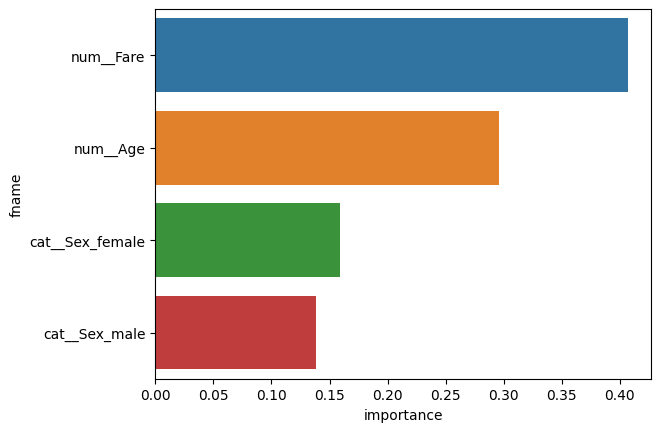
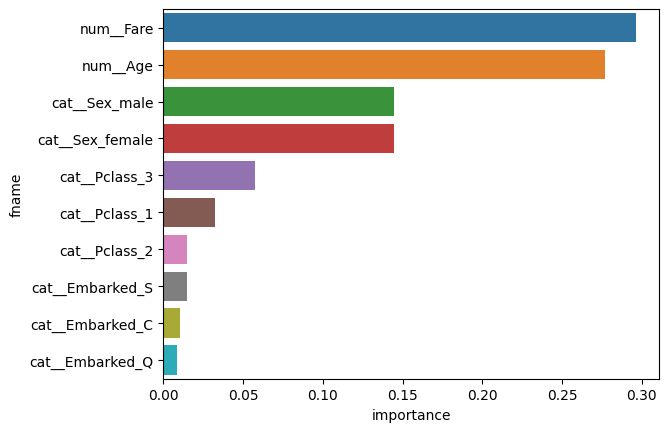
Pclass added cvs=0.794

diff --git a/src/featurize.py b/src/featurize.py
@@ -42,7 +42,7 @@ pipe_cat = make_pipeline(SimpleImputer(
 
 pipe_transfrom = ColumnTransformer(
     [('num', pipe_age, ['Age', 'Fare']),
-     ('cat', pipe_cat, ['Sex'])
+     ('cat', pipe_cat, ['Sex', 'Embarked', 'Pclass'])
      ]
 )
 

diff --git a/src/train.py b/src/train.py
@@ -1,13 +1,8 @@
 from sklearn.ensemble import RandomForestClassifier
 import pickle
 
-import sys
 from pathlib import Path
 from typing import Text
-
-for i in sys.path:
-    print(i)
-
 from utils import pars, files
 import yaml
 
